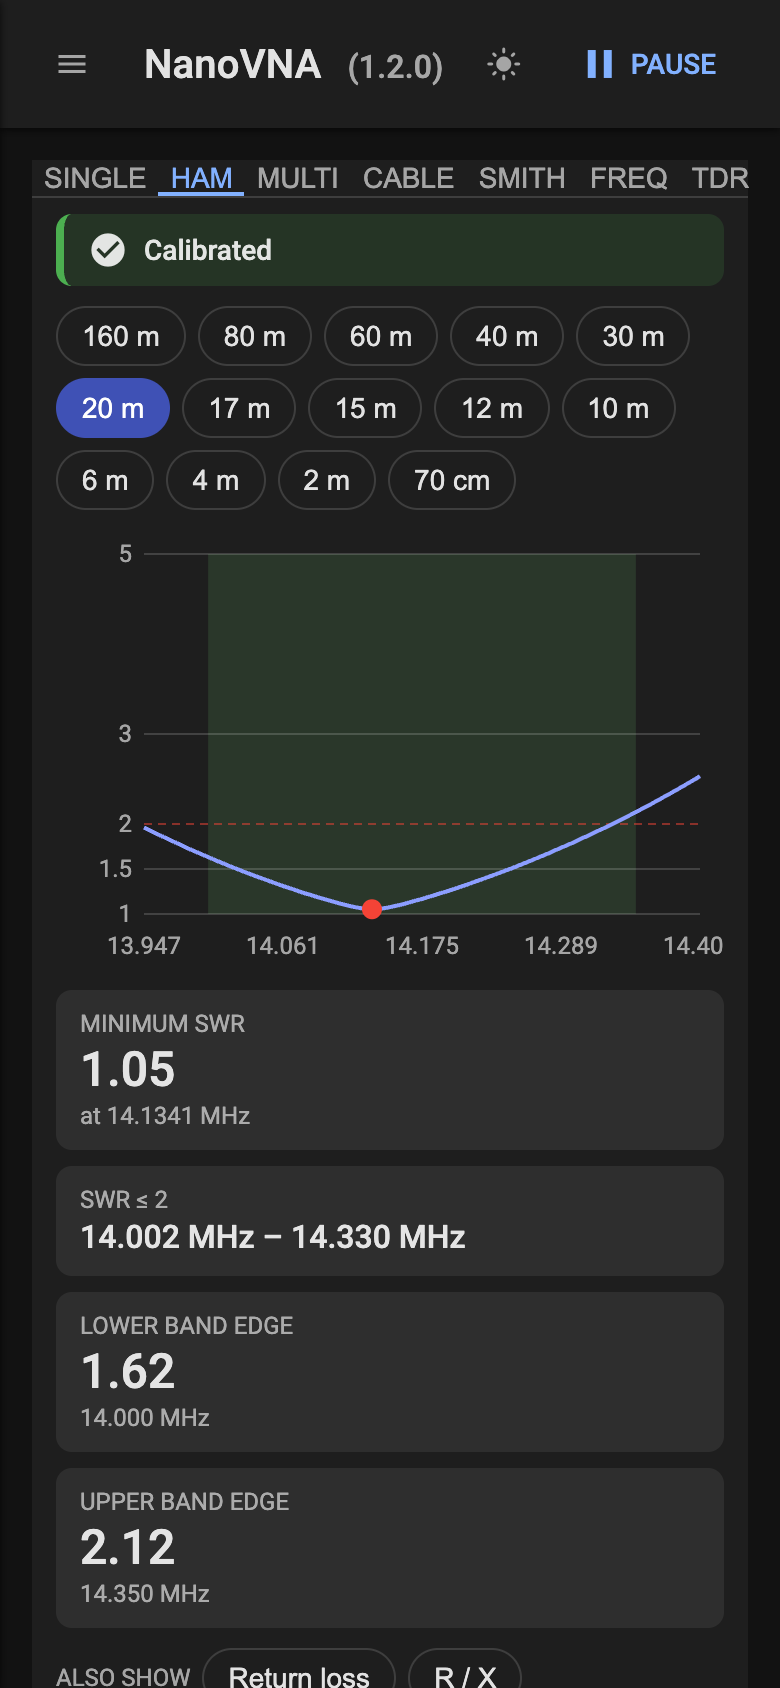
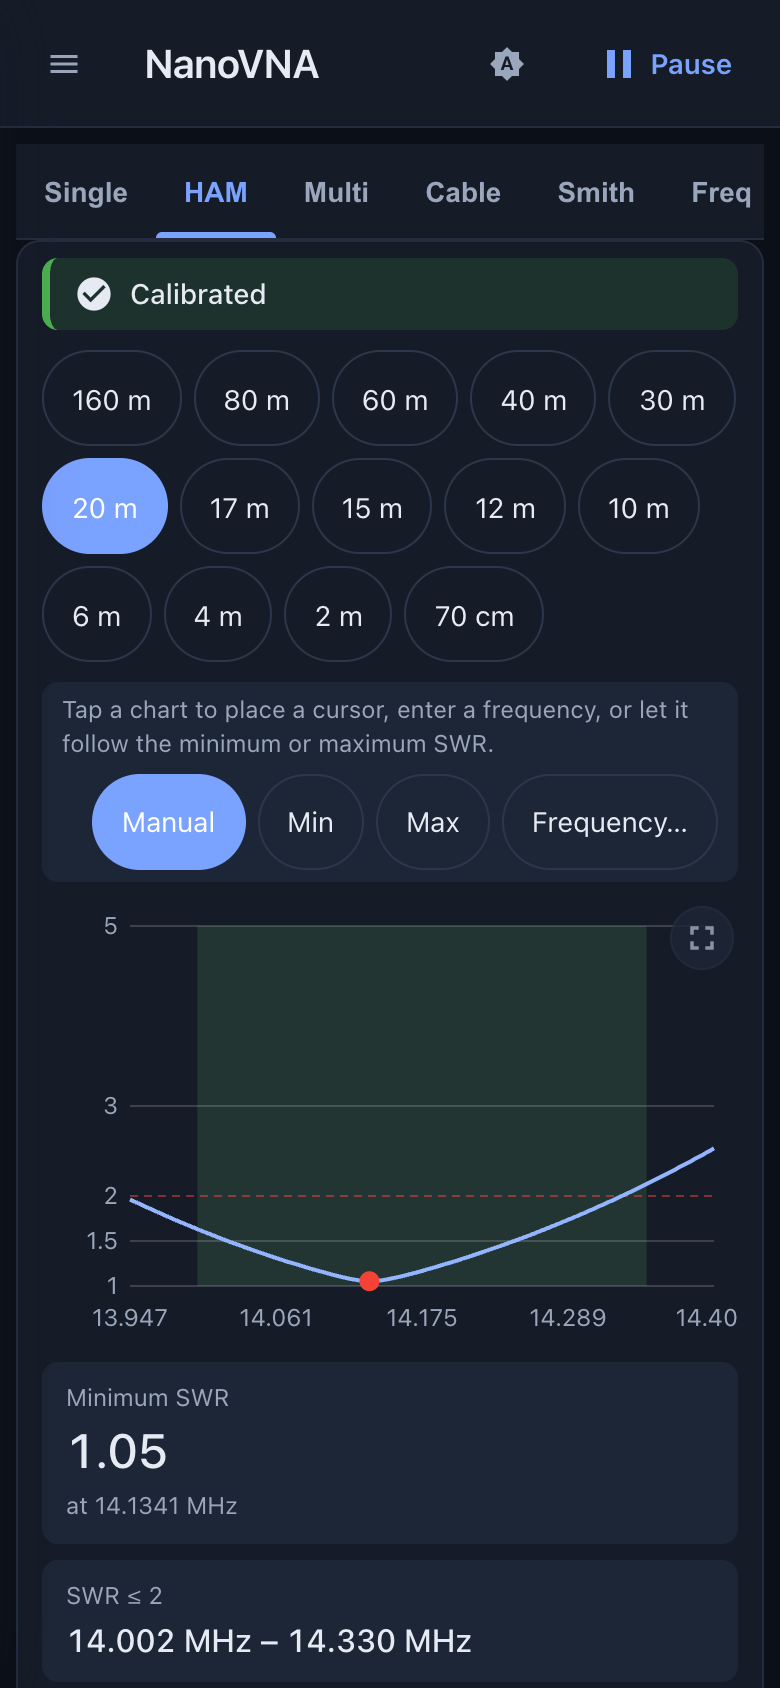
Feature page: new level, what is new in 1.2; fresh screenshots; simulator answers scan_bin; Android 17 local network note

diff --git a/site/index.html b/site/index.html
@@ -126,6 +126,18 @@ ul.points li span { color: var(--dim); }
 footer { border-top: 1px solid var(--line); padding: 36px 0 60px; color: var(--dim); font-size: 14px; }
 footer .links { display: flex; flex-wrap: wrap; gap: 20px; margin-bottom: 16px; }
 footer p { margin: 8px 0; max-width: 780px; }
+
+/* next level + what's new */
+.level { background: linear-gradient(180deg, rgba(79, 209, 165, .07), transparent 70%); }
+.level h2 { font-size: clamp(28px, 4.2vw, 46px); }
+.level h2 em { font-style: normal; color: var(--accent); }
+.level .sub { font-size: 18px; max-width: 760px; }
+.cards { display: grid; grid-template-columns: repeat(auto-fill, minmax(280px, 1fr)); gap: 16px; margin-top: 8px; }
+.card { background: var(--surface); border: 1px solid var(--line); border-radius: var(--radius); padding: 20px 22px; }
+.card b { display: block; color: var(--accent); margin-bottom: 6px; font-size: 16px; }
+.card span { color: var(--dim); font-size: 15px; }
+.banner { margin-top: 28px; padding: 18px 22px; border: 1px solid var(--accent); border-radius: var(--radius); font-weight: 600; }
+.banner span { color: var(--text); }
 </style>
 </head>
 <body>
@@ -137,6 +149,7 @@ footer p { margin: 8px 0; max-width: 780px; }
       NanoVNA Remote
     </a>
     <nav>
+      <a href="#level"><span lang="en">New level</span><span lang="de">Neues Level</span></a>
       <a href="#views"><span lang="en">Views</span><span lang="de">Ansichten</span></a>
       <a href="#calibration"><span lang="en">Calibration</span><span lang="de">Kalibrierung</span></a>
       <a href="#cable"><span lang="en">Cables</span><span lang="de">Kabel</span></a>
@@ -174,6 +187,65 @@ footer p { margin: 8px 0; max-width: 780px; }
       </div>
     </div>
     <div class="phone"><img src="img/phone-ham.png" alt="HAM view: SWR curve of the 20 m band" width="780" height="1688"></div>
+  </div>
+</section>
+
+<section id="level" class="level">
+  <div class="wrap">
+    <div class="eyebrow"><span lang="en">Why it matters</span><span lang="de">Warum das wichtig ist</span></div>
+    <h2><span lang="en">The NanoVNA, taken to <em>a whole new level.</em></span><span lang="de">Das NanoVNA auf <em>ein ganz neues Level gehoben.</em></span></h2>
+    <p class="sub">
+      <span lang="en">The small display and the few buttons of a NanoVNA are made for a quick look. With a phone in your hand the same device becomes a proper antenna workbench: bigger, faster to operate, free of cables to the computer, and with functions the device itself does not offer.</span>
+      <span lang="de">Das kleine Display und die wenigen Tasten eines NanoVNA sind für einen schnellen Blick gemacht. Mit dem Handy in der Hand wird dasselbe Gerät zu einer richtigen Antennen-Werkbank: größer, schneller zu bedienen, ohne Kabel zum Rechner und mit Funktionen, die das Gerät selbst nicht bietet.</span>
+    </p>
+    <div class="cards">
+      <div class="card"><b><span lang="en">Operate it from your phone</span><span lang="de">Bedienung per Handy</span></b>
+        <span lang="en">Touch, pinch to zoom, full-screen charts, keypad entry of frequencies. No more hunting through tiny menus with the jog switch.</span>
+        <span lang="de">Touch, Zoomen mit zwei Fingern, Diagramme im Vollbild, Frequenzeingabe über ein Tastenfeld. Schluss mit dem Suchen in winzigen Menüs mit dem Drehschalter.</span></div>
+      <div class="card"><b><span lang="en">Wireless, at the antenna</span><span lang="de">Drahtlos, direkt an der Antenne</span></b>
+        <span lang="en">The NanoVNA hangs on the antenna, you stand where you can see it. Phone, tablet or laptop, over your WiFi or a hotspot. No USB cable to the computer.</span>
+        <span lang="de">Das NanoVNA hängt an der Antenne, du stehst dort, wo du es sehen kannst. Handy, Tablet oder Laptop, über dein WLAN oder einen Hotspot. Kein USB-Kabel zum Rechner.</span></div>
+      <div class="card"><b><span lang="en">More than the built-in display</span><span lang="de">Mehr als das eingebaute Display</span></b>
+        <span lang="en">All 14 ham bands calibrated once and measured one tap each, several bands compared side by side, markers with delta, minimum and maximum search, Q and equivalent circuits, group delay, cable length and loss, and a time-domain view that finds the fault in a cable.</span>
+        <span lang="de">Alle 14 Amateurfunkbänder einmal kalibriert und mit einem Tipp gemessen, mehrere Bänder nebeneinander, Marker mit Delta sowie Minimum- und Maximumsuche, Q und Ersatzschaltbilder, Gruppenlaufzeit, Kabellänge und Dämpfung und eine Zeitbereichsansicht, die den Fehler im Kabel findet.</span></div>
+      <div class="card"><b><span lang="en">The NanoVNA stays untouched</span><span lang="de">Das NanoVNA bleibt unangetastet</span></b>
+        <span lang="en">Its original firmware stays exactly as it is. Nothing is flashed, nothing is opened, and you do not have to heat up a soldering iron for the extra hardware: the Feather connects to the NanoVNA's USB port with an ordinary cable.</span>
+        <span lang="de">Die originale Firmware bleibt, wie sie ist. Es wird nichts geflasht, nichts geöffnet, und für die zusätzliche Hardware musst du nicht einmal den Lötkolben anheizen: Der Feather wird mit einem gewöhnlichen Kabel an den USB-Anschluss des NanoVNA angeschlossen.</span></div>
+      <div class="card"><b><span lang="en">Calibrate once, use anywhere</span><span lang="de">Einmal kalibrieren, überall nutzen</span></b>
+        <span lang="en">A guided open, short and load calibration checks every standard. It is stored in the Feather, so a second phone or a computer uses it right away.</span>
+        <span lang="de">Eine geführte Open-, Short- und Load-Kalibrierung prüft jeden Abschluss. Sie liegt im Feather, ein zweites Handy oder ein Computer nutzt sie sofort.</span></div>
+      <div class="card"><b><span lang="en">Free and open</span><span lang="de">Frei und offen</span></b>
+        <span lang="en">Open source, nothing to install on the phone, updates over WiFi, results as .s1p and .png.</span>
+        <span lang="de">Open Source, nichts auf dem Handy zu installieren, Updates per WLAN, Ergebnisse als .s1p und .png.</span></div>
+    </div>
+    <p class="banner">
+      <span lang="en">Same NanoVNA, same original firmware: a different way of working.</span>
+      <span lang="de">Dasselbe NanoVNA, dieselbe Original-Firmware: eine ganz andere Art zu arbeiten.</span>
+    </p>
+  </div>
+</section>
+
+<section id="new">
+  <div class="wrap">
+    <div class="eyebrow"><span lang="en">What is new</span><span lang="de">Neu</span></div>
+    <h2><span lang="en">Version 1.2: sharper, faster, easier to read.</span><span lang="de">Version 1.2: übersichtlicher, schneller, besser lesbar.</span></h2>
+    <div class="split">
+      <ul class="points">
+        <li><span lang="en"><b>Full-screen charts.</b> One button blows any chart up to the whole screen.</span><span lang="de"><b>Diagramme im Vollbild.</b> Ein Knopf zieht jedes Diagramm auf den ganzen Bildschirm.</span></li>
+        <li><span lang="en"><b>Markers that follow the extremum.</b> Min and Max track the lowest or highest value on every sweep and say so in the label; with several curves the label names the first trace, which decides.</span><span lang="de"><b>Marker, die dem Extremum folgen.</b> Min und Max verfolgen bei jedem Sweep den tiefsten oder höchsten Wert und stehen so im Label; bei mehreren Kurven nennt das Label die erste Kurve, die entscheidet.</span></li>
+        <li><span lang="en"><b>Marker readout.</b> Delta, search, sweep range from markers, Q, series and parallel circuit.</span><span lang="de"><b>Marker-Anzeige.</b> Delta, Suche, Sweep-Bereich aus Markern, Q, Reihen- und Parallelersatzschaltung.</span></li>
+        <li><span lang="en"><b>More trace formats.</b> Rp, Xp, Q, group delay, Y Smith and polar.</span><span lang="de"><b>Mehr Kurvenformate.</b> Rp, Xp, Q, Gruppenlaufzeit, Y-Smith und Polar.</span></li>
+        <li><span lang="en"><b>Guided calibration.</b> Step by step, with a check that warns when the wrong standard is attached.</span><span lang="de"><b>Geführte Kalibrierung.</b> Schritt für Schritt, mit einer Prüfung, die warnt, wenn der falsche Abschluss angesteckt ist.</span></li>
+        <li><span lang="en"><b>Faster sweeps.</b> Multi, Cable, TDR and the calibration read the data in binary.</span><span lang="de"><b>Schnellere Sweeps.</b> Multi, Kabel, TDR und die Kalibrierung lesen die Daten binär.</span></li>
+        <li><span lang="en"><b>Zoom and a modern look.</b> Two-finger zoom, mouse wheel and drag on the desktop, a new colour scheme in dark and light.</span><span lang="de"><b>Zoom und modernes Aussehen.</b> Zoomen mit zwei Fingern, am Desktop mit Mausrad und Ziehen, ein neues Farbschema in Dunkel und Hell.</span></li>
+        <li><span lang="en"><b>More tools.</b> Port extension, sweep quality dialog (bandwidth, smoothing, power) and a note when the NanoVNA firmware is out of date.</span><span lang="de"><b>Mehr Werkzeuge.</b> Port-Extension, Sweep-Qualität (Bandbreite, Glättung, Leistung) und ein Hinweis, wenn die NanoVNA-Firmware veraltet ist.</span></li>
+        <li><span lang="en"><b>Robust.</b> The app recovers when the connection to the NanoVNA drops, and the Feather's display lists its buttons in the order they sit on the board.</span><span lang="de"><b>Robust.</b> Die App erholt sich, wenn die Verbindung zum NanoVNA abbricht, und das Display des Feathers nennt die Tasten in der Reihenfolge, in der sie auf der Platine sitzen.</span></li>
+      </ul>
+      <div class="phone"><img loading="lazy" src="img/phone-freq.png" alt="Freq view with a marker following the maximum" width="780" height="1688"></div>
+    </div>
+    <div class="themes">
+      <div class="phone"><img loading="lazy" src="img/phone-freq-full.png" alt="The Freq chart in full screen" width="780" height="1688"></div>
+    </div>
   </div>
 </section>
 

diff --git a/dev-tools/simulator.py b/dev-tools/simulator.py
@@ -160,6 +160,18 @@ class Vna:
             mask = int(args[3])  # bit 0: frequency, bit 1: channel 0, bit 2: channel 1
             cols = ([[str(f) for f in self.freqs()]] if mask & 1 else []) + [self.data(c) for c in (0, 1) if mask & (2 << c)]
             return ("\r\n".join(" ".join(row) for row in zip(*cols)) + "\r\n").encode()
+        if cmd == "scan_bin" and len(args) >= 3:
+            # binary answer like the NanoVNA-H firmware: flags (0x80 marks binary), points, then one record per point
+            self.start, self.stop, self.points = int(args[0]), int(args[1]), max(2, int(args[2]))
+            mask = int(args[3]) if len(args) > 3 else 7
+            freqs = self.freqs()
+            data = [[tuple(map(float, row.split())) for row in self.data(c)] for c in (0, 1)]
+            out = struct.pack("<HH", mask | 0x80, self.points)
+            for i in range(self.points):
+                if mask & 1: out += struct.pack("<I", freqs[i])
+                for c in (0, 1):
+                    if mask & (2 << c): out += struct.pack("<ff", *data[c][i])
+            return out
         if cmd == "save" and args: self.slots[args[0]] = (self.start, self.stop, self.points); return b""
         if cmd == "recall" and args:
             self.start, self.stop, self.points = self.slots.get(args[0], (50000, 900000000, 101))

diff --git a/docs/STATUS.md b/docs/STATUS.md
@@ -1,12 +1,12 @@
 # Status
 
-Repo: github.com/ckonecny/nanovna-remote (public), latest release v1.1.2. Open features and bugs: GitHub issues
+Repo: github.com/ckonecny/nanovna-remote (public), latest release v1.2.0. Open features and bugs: GitHub issues
 (CLAUDE.md rule 9). Finished work: `docs/STATUS-ARCHIVE.md`. Decisions and hardware findings: `docs/DECISIONS.md`.
 This file holds only the current state and hints for the next session.
 
 ## Current state (2026-11-03)
-- Solid state, everything committed and pushed; v1.1.2 is flashed on the user's Feather and tested there (installer,
-  QR codes, orientation, About, return to the status screen, OTA over `/update`).
+- Solid state, everything committed and pushed; v1.2.0 released (full-screen charts, marker labels and Min/Max, guided
+  calibration, scan_bin, status screen button order); the feature page and all screenshots are current.
 - Firmware: bridge, web app, OTA (`/update` page and `/api/ota`), calibration storage, multi-network WiFi, display UI,
   QR codes. Flash 86.8 % of the app slot (over 85 %, 207 KB free; the user decided to leave it until it gets tight).
 - Web app: Single, HAM, Multi, Cable, TDR, Smith, Freq views, app-side OSL calibration, export. Live demo with a simulated
@@ -32,6 +32,8 @@ This file holds only the current state and hints for the next session.
   freeze, client on an iPhone, the old Feather (pre-display firmware) over WiFi.
 
 ## Next steps
+- Chrome on the user's Android 17 phone: `ERR_TOO_MANY_RETRIES` for the whole local network until Chrome gets "Nearby devices"
+  (DECISIONS); the user still has to allow it and confirm. The Feather photo on the feature page shows the old button order.
 - Status screen: the button hints follow the physical button order (D1 above D2, reversed when the display is turned), USB line above them; flashed, checked by the user.
 - Marker labels in the dark scheme (border, lighter background, ring around the point) and Min/Max following the extremum with a
   "Min"/"Max" label: built, checked in the demo (dark and light), flashed. With several traces the tooltip sits on the first

diff --git a/docs/DECISIONS.md b/docs/DECISIONS.md
@@ -322,3 +322,11 @@ installer page on https cannot call a http device (mixed content); the installer
   `firstPoint` (tip on the first trace's point); the marker diamond is set on every trace's element (`_model`) in `beforeRender`, because
   the dataset arrays alone were not picked up with several traces. With several traces the title names the first trace
   ("Max CH0 swr · 250.2 MHz"): it alone decides Min / Max.
+
+## Chrome on Android 17 and the local network (2026-11)
+- Chrome (156) on an Android 17 phone failed with `ERR_TOO_MANY_RETRIES` for every address in the home network (the Feather, the
+  router, a test server on the computer), while Firefox worked. Cause: Android 17 has the runtime permission
+  `ACCESS_LOCAL_NETWORK` (shown as "Nearby devices"); Chrome had it only compat-revoked, Firefox had it set by the user. Not a
+  firmware problem: the Feather answers Chrome-like requests correctly. Fix is on the phone (manual, troubleshooting table).
+- `dev-tools/simulator.py` now answers `scan_bin` (binary record format of the NanoVNA-H firmware), because the app reads
+  Multi, Cable, TDR and the app-side calibration with it; `shots.mjs` follows the guided calibration.

diff --git a/manual/manual_de.md b/manual/manual_de.md
@@ -321,5 +321,6 @@ hochladen. Siehe `firmware/README.md`.
 | Das Display bleibt dunkel | RESET drücken. Bleibt es dunkel, per USB neu flashen. |
 | Kein Setup-WLAN sichtbar | D0 halten und RESET drücken. Nach **NanoVNA-Remote** suchen (nicht nach einem älteren Namen). |
 | Die Seite öffnet nicht | IP-Adresse vom Display verwenden; `nanovna.local` funktioniert nicht überall. |
+| Chrome unter Android 17 zeigt `ERR_TOO_MANY_RETRIES` für jede Adresse im Heimnetz (Firefox funktioniert) | Android 17 sperrt den Zugriff auf das lokale Netz, bis du ihn erlaubst: **Einstellungen → Apps → Chrome → Berechtigungen → Geräte in der Nähe → Zulassen**. |
 | „USB: no device“ | USB-Kabel zwischen Feather und NanoVNA prüfen; der NanoVNA muss eingeschaltet sein. |
 | Daten bleiben aus, NanoVNA hängt | NanoVNA neu starten (er kann nach einem Feather-Reset während einer Übertragung hängen). |

diff --git a/manual/manual_en.md b/manual/manual_en.md
@@ -305,5 +305,6 @@ PlatformIO. See `firmware/README.md`.
 | The display stays dark | Press RESET. If it stays dark, reflash over USB. |
 | No setup WiFi visible | Hold D0 while pressing RESET. Look for **NanoVNA-Remote** (not an older name). |
 | The page does not open | Use the IP address from the display; `nanovna.local` does not work everywhere. |
+| Chrome on Android 17 shows `ERR_TOO_MANY_RETRIES` for every address in your home network (Firefox works) | Android 17 blocks apps from the local network until you allow it: **Settings → Apps → Chrome → Permissions → Nearby devices → Allow**. |
 | "USB: no device" | Check the USB cable between Feather and NanoVNA; the NanoVNA must be switched on. |
 | Data stops, NanoVNA frozen | Restart the NanoVNA (it can hang after a Feather reset during a transfer). |
